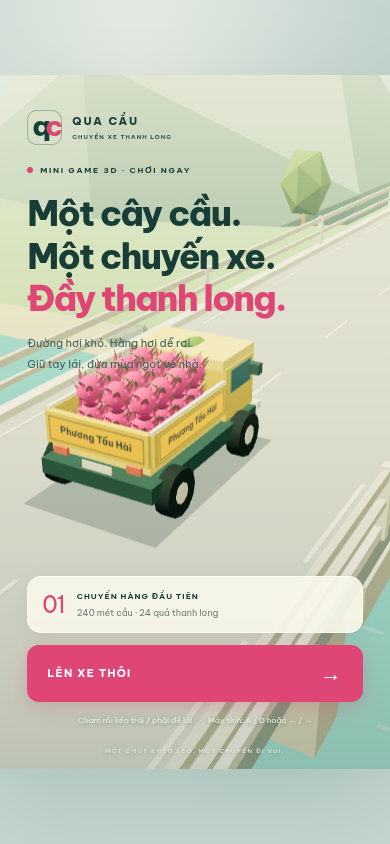
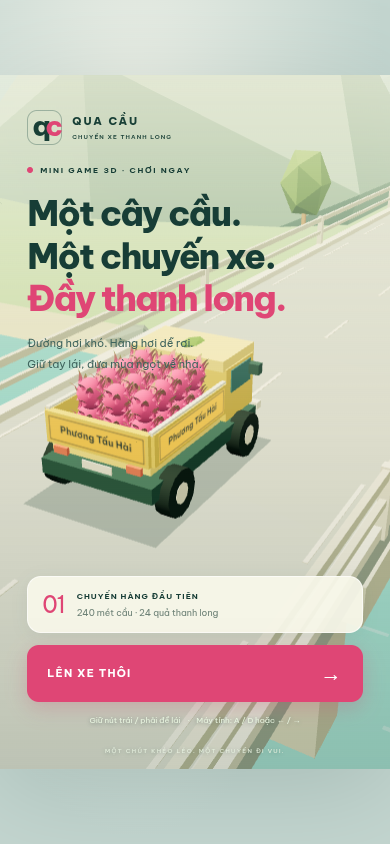
Restore held steering buttons and add three-stage bridge speed

diff --git a/src/main.ts b/src/main.ts
@@ -23,7 +23,7 @@ let x = 0, z = 0, vx = 0, speed = 0, roll = 0, pitch = 0, shake = 0, hitCooldown
 let retained = TOTAL, elapsed = 0, noticeTimer = 0, accumulator = 0, ready = false;
 const audio = new GameAudio();
 const input = { left: false, right: false };
-let drag: { id: number; startX: number; carX: number; targetX: number } | undefined;
+const pointerIds = new Map<'left' | 'right', number>();
 const heldKeys = new Set<string>();
 const scene = new THREE.Scene();
 scene.background = new THREE.Color('#c5dfd7');
@@ -354,11 +354,12 @@ function step() {
   elapsed += STEP; hitCooldown = Math.max(0,hitCooldown-STEP);
   if(noticeTimer>0) { noticeTimer-=STEP; if(noticeTimer<=0) $('impact').classList.remove('show'); }
   const steering = Number(input.right) - Number(input.left);
-  const targetSpeed = Math.min(15, 6 + elapsed * .36);
-  speed += THREE.MathUtils.clamp(targetSpeed-speed,-5*STEP,1.4*STEP);
+  const progress=THREE.MathUtils.clamp(-z/FINISH,0,1);
+  const targetSpeed=progress<.7 ? 7+6*THREE.MathUtils.smoothstep(progress,.3,.65) : 13+11*THREE.MathUtils.smoothstep(progress,.72,.96);
+  speed+=THREE.MathUtils.clamp(targetSpeed-speed,-9*STEP,(progress<.7?3:9)*STEP);
   const steeringSpeed=3.2+Math.max(0,speed-6)*.13;
-  const targetVx = drag ? THREE.MathUtils.clamp((drag.targetX-x)*9,-steeringSpeed-1,steeringSpeed+1) : steering * steeringSpeed;
-  vx += (targetVx-vx) * STEP * 5;
+  const targetVx = steering * steeringSpeed;
+  vx += (targetVx-vx) * STEP * (steering===0?18:8);
   x += vx*STEP; z -= speed*STEP;
   if(Math.abs(x) > 2.63) {
     x = Math.sign(x)*2.63; vx *= -.2;
@@ -369,10 +370,10 @@ function step() {
     }
   }
   shake *= .95;
-  const targetRoll = -vx*.035 + Math.sin(elapsed*29)*shake*.16;
+  const targetRoll = THREE.MathUtils.clamp(-vx*.025,-.085,.085) + Math.sin(elapsed*29)*shake*.16;
   roll += (targetRoll-roll)*.15; pitch = Math.sin(elapsed*23)*shake*.06;
   truck.position.set(x,Math.sin(elapsed*25)*shake*.035, z);
-  truck.rotation.set(pitch,-vx*.035,roll);
+  truck.rotation.set(pitch,THREE.MathUtils.clamp(-vx*.025,-.11,.11),roll);
   currentTruck.position.copy(truck.position);currentTruck.quaternion.copy(truck.quaternion);currentElapsed=elapsed;
   tempEuler.copy(truck.rotation); tempQ.setFromEuler(tempEuler);
   truckBody.setNextKinematicTranslation(truck.position); truckBody.setNextKinematicRotation(tempQ);
@@ -386,7 +387,7 @@ function step() {
     const p=f.body.translation();
     if(Math.abs(p.x-x)<.88 && Math.abs(p.z-z-.45)<1.03 && p.y<1.95) {
       const v=f.body.linvel();
-      f.body.setLinvel({x:v.x*.85+vx*.15,y:v.y,z:v.z*.85-speed*.15},true);
+      f.body.setLinvel({x:v.x*.5+vx*.5,y:v.y,z:v.z*.5-speed*.5},true);
     }
   }
   world.step();
@@ -403,13 +404,14 @@ function step() {
   else if(retained <= 0) finish(false);
 }
 function resetInput() {
-  input.left=input.right=false; heldKeys.clear();
-  const pointerId=drag?.id;drag=undefined;
-  if(pointerId!==undefined&&$('game').hasPointerCapture(pointerId))$('game').releasePointerCapture(pointerId);
+  input.left=input.right=false;heldKeys.clear();
+  const active=[...pointerIds];pointerIds.clear();
+  for(const [id,pointer] of active){const button=$(id);button.classList.remove('pressed');if(button.hasPointerCapture(pointer))button.releasePointerCapture(pointer);}
 }
 function syncInput() {
-  input.left=heldKeys.has('arrowleft')||heldKeys.has('a');
-  input.right=heldKeys.has('arrowright')||heldKeys.has('d');
+  input.left=pointerIds.has('left')||heldKeys.has('arrowleft')||heldKeys.has('a');
+  input.right=pointerIds.has('right')||heldKeys.has('arrowright')||heldKeys.has('d');
+  (['left','right'] as const).forEach(id=>$(id).classList.toggle('pressed',input[id]));
 }
 function startGame() {
   if(!ready) return;
@@ -435,7 +437,7 @@ function finish(arrived: boolean) {
   $('end-screen').classList.remove('hidden');
   $('end-eyebrow').textContent=arrived?'CHUYẾN XE HOÀN THÀNH':'HÀNG RƠI HẾT RỒI';
   $('end-title').textContent=arrived?'Về nhà rồi!':'Thử lại một chuyến?';
-  $('end-description').textContent=arrived?'Một chuyến đi nhỏ, mang theo cả mùa ngọt.':'Kéo nhẹ để né vật cản và chú ý gà, chó qua đường nhé.';
+  $('end-description').textContent=arrived?'Một chuyến đi nhỏ, mang theo cả mùa ngọt.':'Giữ nút trái/phải để né vật cản và chú ý gà, chó qua đường nhé.';
   $('end-count').textContent=String(retained); $('best').textContent=`Kỷ lục của bạn: ${bestScore(arrived?retained:0)} / ${TOTAL} quả`;
   if(arrived) {tone(660,.25); setTimeout(()=>tone(880,.35),140);} else tone(150,.4);
   $('again').focus();
@@ -445,20 +447,16 @@ function showHome() {
   ['intro','footer'].forEach(id=>$(id).classList.remove('hidden')); $('start').focus();
 }
 function bindControls() {
-  const surface=$('game');
-  surface.addEventListener('pointerdown',e=> {
-    if(mode!=='playing'||drag||(e.target as HTMLElement).closest('button,a'))return;
-    e.preventDefault();surface.setPointerCapture(e.pointerId);
-    drag={id:e.pointerId,startX:e.clientX,carX:x,targetX:x};
-    $('drive-hint').style.opacity='0';
-  });
-  surface.addEventListener('pointermove',e=> {
-    if(!drag||e.pointerId!==drag.id)return;
-    e.preventDefault();drag.targetX=THREE.MathUtils.clamp(drag.carX+(e.clientX-drag.startX)/surface.clientWidth*7.2,-2.6,2.6);
-  });
-  const release=(e:PointerEvent)=>{if(drag?.id===e.pointerId)drag=undefined;};
-  surface.addEventListener('pointerup',release);surface.addEventListener('pointercancel',release);surface.addEventListener('lostpointercapture',release);
-  surface.addEventListener('contextmenu',e=>e.preventDefault());
+  for(const id of ['left','right'] as const) {
+    const button=$(id);
+    button.addEventListener('pointerdown',e=>{
+      if(mode!=='playing'||pointerIds.has(id))return;
+      e.preventDefault();button.setPointerCapture(e.pointerId);pointerIds.set(id,e.pointerId);syncInput();
+    });
+    const release=(e:PointerEvent)=>{if(pointerIds.get(id)===e.pointerId){pointerIds.delete(id);syncInput();}};
+    button.addEventListener('pointerup',release);button.addEventListener('pointercancel',release);button.addEventListener('lostpointercapture',release);
+    button.addEventListener('contextmenu',e=>e.preventDefault());
+  }
   window.addEventListener('keydown',e=> {
     const key=e.key.toLowerCase();
     if(key==='escape'||key==='p'){if(e.repeat)return;if(mode==='playing')pauseGame();else if(mode==='paused')resumeGame();return;}
@@ -526,7 +524,7 @@ async function init() {
     ready=true; $('start').removeAttribute('disabled'); $('start').innerHTML='<span>LÊN XE THÔI</span><span>→</span>';
     animate();
     // Read-only development diagnostics used by the browser smoke tests.
-    if(import.meta.env.DEV) Object.defineProperty(window,'__game',{value:{state:()=>({drawCalls:renderer.info.render.calls,triangles:renderer.info.render.triangles,frameMs,pixelRatio,renderAlpha,simulationSteps,render:{...renderDiagnostics},dragging:!!drag,audio:audio.status(),animals:obstacles.filter(o=>o.animal).map(o=>({kind:o.animal,phase:o.phase,x:o.x,z:o.z,hit:o.hit})),obstacles:obstacles.map(o=>({x:o.x,z:o.z,hit:o.hit,animal:o.animal,phase:o.phase})),mode,x,z,speed,cargo:retained,elapsed,fruitCount:fruits.length,obstaclesHit:obstacles.filter(o=>o.hit).length,ready,input:{...input}})}});
+    if(import.meta.env.DEV) Object.defineProperty(window,'__game',{value:{state:()=>({drawCalls:renderer.info.render.calls,triangles:renderer.info.render.triangles,frameMs,pixelRatio,renderAlpha,simulationSteps,render:{...renderDiagnostics},audio:audio.status(),animals:obstacles.filter(o=>o.animal).map(o=>({kind:o.animal,phase:o.phase,x:o.x,z:o.z,hit:o.hit})),obstacles:obstacles.map(o=>({x:o.x,z:o.z,hit:o.hit,animal:o.animal,phase:o.phase})),mode,x,z,speed,cargo:retained,elapsed,fruitCount:fruits.length,obstaclesHit:obstacles.filter(o=>o.hit).length,ready,input:{...input}})}});
   } catch(error) {
     console.error(error); $('error').textContent='Chưa khởi động được đồ họa 3D. Hãy thử Chrome/Safari mới nhất, bật tăng tốc phần cứng rồi tải lại trang.';$('error').classList.remove('hidden');
     $('start').innerHTML='<span>KHÔNG THỂ KHỞI ĐỘNG</span>';

diff --git a/src/style.css b/src/style.css
@@ -5,5 +5,7 @@
 #hud{position:absolute;top:13%;left:7%;right:7%;display:flex;gap:20px;align-items:center;z-index:3}.cargo-stat{background:#fbf9edee;padding:10px 13px;border-radius:12px;display:flex;gap:10px;align-items:center;box-shadow:0 3px 10px #234a4310}.fruit-icon{color:var(--pink);font-size:27px}.cargo-stat strong{font-size:23px;line-height:1;font-weight:800}.cargo-stat div>span{font-size:10px;color:#85948a}.cargo-stat small{display:block;font-size:6px;letter-spacing:1px;margin-top:4px}.route-stat{flex:1}.route-stat>div:first-child{display:flex;justify-content:space-between;align-items:center;font-size:7px;font-weight:700;letter-spacing:1px}.route-stat strong{font-size:10px}.progress-track{height:5px;background:#214a4320;border-radius:5px;margin-top:8px;overflow:hidden}#progress{height:100%;width:0;background:var(--pink);transition:width .15s}#controls{position:absolute;bottom:5%;left:7%;right:7%;z-index:4}.drive-hint{text-align:center;color:#fff;font-size:8px;font-weight:600;letter-spacing:1px;margin-bottom:12px;text-shadow:0 1px 5px #173e35}#impact{position:absolute;top:26%;left:0;right:0;text-align:center;color:#a42c50;font-size:11px;font-weight:800;z-index:4;opacity:0;transition:opacity .15s;text-shadow:0 1px 10px #fff}#impact.show{opacity:1}.modal{position:absolute;inset:0;background:#143c3860;backdrop-filter:blur(7px);display:flex;align-items:center;padding:7%;z-index:6}.modal-card{background:#f6f5e8;width:100%;border-radius:22px;padding:29px 23px;text-align:center;box-shadow:0 20px 80px #12352a40}.modal-card .eyebrow{justify-content:center;color:#6f8a76;font-size:7px}.modal-card h2{font-size:26px;letter-spacing:-1px;margin:15px 0 10px;line-height:1.25}.modal-card p{font-size:11px;line-height:1.8;color:#648073}.text-button{background:none;color:#627e70;font-size:10px;padding:18px 10px 0;text-decoration:underline;text-underline-offset:4px}#end-medal{font-size:52px;color:var(--pink);line-height:1;margin:23px 0 0}.result{margin:22px 0 10px;display:flex;align-items:baseline;justify-content:center;gap:8px}.result strong{font-size:54px;color:var(--pink);letter-spacing:-3px}.result span{font-size:11px;color:#6e8478}.best{font-size:9px;color:#648073;margin-bottom:24px}#error{position:absolute;inset:20% 6% auto;background:#fff4e7;border-radius:15px;padding:20px;font-size:12px;line-height:1.8;z-index:10}
 @media(min-width:700px){#game{border-radius:24px;border:6px solid #faf9f080;height:min(96dvh,900px);width:min(54dvh,506.25px)}body{background:radial-gradient(ellipse at 50% 40%,#edf0e7,#bdd0ca)}}@media(max-height:650px){h1{font-size:clamp(24px,5.1dvh,34px)}.intro-description{font-size:9px}.trip-note{padding:10px}.primary-button{padding:14px 17px}.modal-card{padding:20px}.modal-card h2{font-size:23px}}
 
-#controls{pointer-events:none;bottom:8%}.drive-hint{background:#234a43bf;border:1px solid #fff3;border-radius:16px;padding:14px 12px;width:fit-content;margin:0 auto;transition:opacity .4s}.drive-hint span{display:block;font-size:25px;line-height:1.3;margin-top:5px}#canvas canvas{touch-action:none}
+#controls{bottom:4%;pointer-events:none}.drive-hint{background:#234a43bf;border:1px solid #fff3;border-radius:16px;padding:14px 12px;width:fit-content;margin:0 auto;transition:opacity .4s}#canvas canvas{touch-action:none}
 #end-screen{backdrop-filter:none;background:#143c3833}
+
+html,body,#game{overscroll-behavior:none}#controls .drive-hint{padding:9px 12px;margin-bottom:10px}.control-row{display:flex;justify-content:space-between;gap:22px}.steer{pointer-events:auto;width:42%;height:70px;display:flex;align-items:center;justify-content:center;gap:9px;background:#faf9edee;color:#285346;border:1px solid #fff8;border-radius:18px;box-shadow:0 4px 15px #173e3520;touch-action:none;user-select:none;-webkit-user-select:none}.steer span{font-size:9px;font-weight:800;letter-spacing:1px}.steer.pressed{background:#df4675;color:#fff;transform:translateY(2px)}@media(max-height:650px){.steer{height:54px}}

diff --git a/index.html b/index.html
@@ -28,11 +28,15 @@
       <div class="intro-bottom">
         <div class="trip-note"><span>01</span><div>CHUYẾN HÀNG ĐẦU TIÊN<small>240 mét cầu · 24 quả thanh long</small></div><span class="trip-arrow">↗</span></div>
         <button id="start" class="primary-button" disabled><span>ĐANG XẾP HÀNG…</span><span>→</span></button>
-        <p class="input-hint">Chạm rồi kéo trái / phải để lái <span>·</span> Máy tính: A / D hoặc ← / →</p>
+        <p class="input-hint">Giữ nút trái / phải để lái <span>·</span> Máy tính: A / D hoặc ← / →</p>
       </div>
     </section>
     <section id="controls" class="hidden" aria-label="Điều khiển">
-      <div class="drive-hint" id="drive-hint">CHẠM & KÉO TRÁI / PHẢI ĐỂ LÁI <span>↔</span></div>
+      <div class="drive-hint" id="drive-hint">GIỮ NÚT TRÁI / PHẢI ĐỂ LÁI</div>
+      <div class="control-row">
+        <button id="left" class="steer" aria-label="Lái sang trái"><svg width="25" height="25" viewBox="0 0 24 24" aria-hidden="true"><path d="m15 5-7 7 7 7" fill="none" stroke="currentColor" stroke-width="3" stroke-linecap="round" stroke-linejoin="round"/></svg><span>TRÁI</span></button>
+        <button id="right" class="steer" aria-label="Lái sang phải"><svg width="25" height="25" viewBox="0 0 24 24" aria-hidden="true"><path d="m9 5 7 7-7 7" fill="none" stroke="currentColor" stroke-width="3" stroke-linecap="round" stroke-linejoin="round"/></svg><span>PHẢI</span></button>
+      </div>
     </section>
     <section id="pause-screen" class="modal hidden" role="dialog" aria-modal="true" aria-labelledby="pause-title">
       <div class="modal-card"><div class="eyebrow">NGHỈ MỘT NHỊP</div><h2 id="pause-title">Chuyến xe vẫn đợi.</h2><p>Hít thở rồi mình qua cầu tiếp nhé.</p><button id="resume" class="primary-button">TIẾP TỤC <span>→</span></button><button id="restart-pause" class="text-button">Chơi lại từ đầu</button></div>

diff --git a/README.md b/README.md
@@ -6,10 +6,11 @@ Mini game 3D chạy trên web, ưu tiên màn hình dọc 9:16. Lái xe chở 24
 
 ## Chơi
 
-- Điện thoại: chạm bất kỳ chỗ trống nào trên màn hình rồi **kéo trái / phải** để lái. Nhấc tay, chạm lại để tiếp tục. Xe tự chạy và tăng tốc dần; không có nút đi chậm.
-- Máy tính: kéo chuột, hoặc **A / D** và **← / →** để lái.
+- Điện thoại: **nhấn giữ nút TRÁI / PHẢI** ở cuối màn hình để lái, nhấc tay để ngừng lái. Không dùng cử chỉ quẹt màn hình, thuận tiện khi mở trong Zalo. Không có nút đi chậm.
+- Máy tính: giữ nút trái/phải bằng chuột, hoặc dùng **A / D** và **← / →**.
 - **P / Esc** để tạm dừng. Chuyển tab hoặc mất focus cũng tự tạm dừng.
 - Không có nhạc nền hoặc nút âm thanh. Chỉ giữ tiếng va chạm, rơi quả, gà/chó và hiệu ứng về đích; dùng âm lượng thiết bị để điều chỉnh.
+- Tốc độ theo quãng đường: 30% đầu cầu chạy vừa (7 m/s), giữa cầu tăng dần lên 13 m/s, sau 72% tăng mạnh và đạt 24 m/s gần đích. Tăng tốc mượt; va chạm vẫn làm chậm xe tạm thời.
 - Kỷ lục được lưu trên trình duyệt; không cần tài khoản.
 
 ## Phát triển
@@ -45,7 +46,7 @@ Trong môi trường cloud hiện tại dùng Chromium có sẵn:
 CHROMIUM_PATH=/usr/bin/chromium npm run test:smoke
 ```
 
-Bộ smoke test kiểm tra 9:16 trên điện thoại và desktop, giữ đủ 24 quả khi chạy thẳng nhẹ nhàng, va chạm làm rơi hàng, phím lái, kéo cảm ứng hai hướng, nhấc tay/chạm lại/hủy thao tác, tạm dừng / tiếp tục, reset, chuyển động của gà/chó và chạy tới cuối cầu còn hàng. Kiểm tra không có âm thanh nền liên tục, tốc độ tăng dần, camera bám cùng thời điểm với xe và giới hạn số lượt vẽ. Diagnostics chỉ tồn tại trong dev build. Ảnh kiểm tra được lưu ở `/tmp/gamequacau-*.png`. Có thể đổi URL bằng `GAME_URL` (phải dùng dev server để có diagnostics).
+Bộ smoke test kiểm tra 9:16 trên điện thoại và desktop, giữ đủ 24 quả khi chạy thẳng nhẹ nhàng, va chạm làm rơi hàng, phím lái, nhấn giữ nút hai hướng, nhấc tay/hủy thao tác, hai nút đồng thời và thao tác quẹt không điều khiển xe, tạm dừng / tiếp tục, reset, chuyển động của gà/chó và chạy tới cuối cầu còn hàng. Kiểm tra không có âm thanh nền liên tục, ba giai đoạn tốc độ (chạy vừa, nhanh và rất nhanh), camera bám cùng thời điểm với xe và giới hạn số lượt vẽ. Diagnostics chỉ tồn tại trong dev build. Ảnh kiểm tra được lưu ở `/tmp/gamequacau-*.png`. Có thể đổi URL bằng `GAME_URL` (phải dùng dev server để có diagnostics).
 
 Kiểm tra riêng chuyển động với màn hình 120 Hz và nhịp render không đều:
 
@@ -67,6 +68,6 @@ Sau khi commit thay đổi mã nguồn, cập nhật GitHub Pages bằng `npm ru
 
 ## Công nghệ và giới hạn
 
-TypeScript, Vite, Three.js, Rapier. Bản 0.3 gộp hình tĩnh và xe theo vật liệu, vẽ 24 quả thanh long bằng instancing, thay bóng động bằng bóng đơn giản, giới hạn pixel ratio 1 và tự hạ xuống 0.85 khi máy chậm. Chuyển động được nội suy giữa các bước vật lý 60 Hz; camera, xe, trái cây và động vật dùng chung thời điểm vẽ. Camera không còn trễ theo chiều tiến và xe không rung khi chạy bình thường. Biển đích dùng texture chữ lớn, vật liệu không bị ảnh hưởng bởi sương/ánh sáng; thùng xe mang chữ “Phương Tấu Hài”. Suối có vệt nước chảy ngang bên dưới cầu. Tạo hình low-poly bằng code, không cần tải asset từ dịch vụ ngoài. Thanh long dùng rigid bodies thật; thùng xe có lực giữ nhẹ mô phỏng độ bám khi chạy bình thường, giảm lực giữ trong va chạm để hàng rơi ra. Xe dùng điều khiển arcade, va chạm vật cản được phát hiện ở lớp gameplay; chưa mô phỏng đầy đủ bánh xe / hệ thống treo. Lan can giữ xe trên cầu, bản này chưa có xe rơi khỏi cầu. Một màn chơi cố định, chưa có nhiều level hoặc bảng điểm online.
+TypeScript, Vite, Three.js, Rapier. Bản 0.4 gộp hình tĩnh và xe theo vật liệu, vẽ 24 quả thanh long bằng instancing, thay bóng động bằng bóng đơn giản, giới hạn pixel ratio 1 và tự hạ xuống 0.85 khi máy chậm. Chuyển động được nội suy giữa các bước vật lý 60 Hz; camera, xe, trái cây và động vật dùng chung thời điểm vẽ. Camera không còn trễ theo chiều tiến và xe không rung khi chạy bình thường. Biển đích dùng texture chữ lớn, vật liệu không bị ảnh hưởng bởi sương/ánh sáng; thùng xe mang chữ “Phương Tấu Hài”. Suối có vệt nước chảy ngang bên dưới cầu. Tạo hình low-poly bằng code, không cần tải asset từ dịch vụ ngoài. Thanh long dùng rigid bodies thật; thùng xe có lực giữ nhẹ mô phỏng độ bám khi chạy bình thường, giảm lực giữ trong va chạm để hàng rơi ra. Xe dùng điều khiển arcade, va chạm vật cản được phát hiện ở lớp gameplay; chưa mô phỏng đầy đủ bánh xe / hệ thống treo. Lan can giữ xe trên cầu, bản này chưa có xe rơi khỏi cầu. Một màn chơi cố định, chưa có nhiều level hoặc bảng điểm online.
 
 Yêu cầu trình duyệt có WebGL2 / tăng tốc phần cứng. Đã kiểm tra Chromium mô phỏng viewport điện thoại; vẫn cần thử cảm giác lái và hiệu năng trên điện thoại thực tế, đặc biệt Safari iOS.
